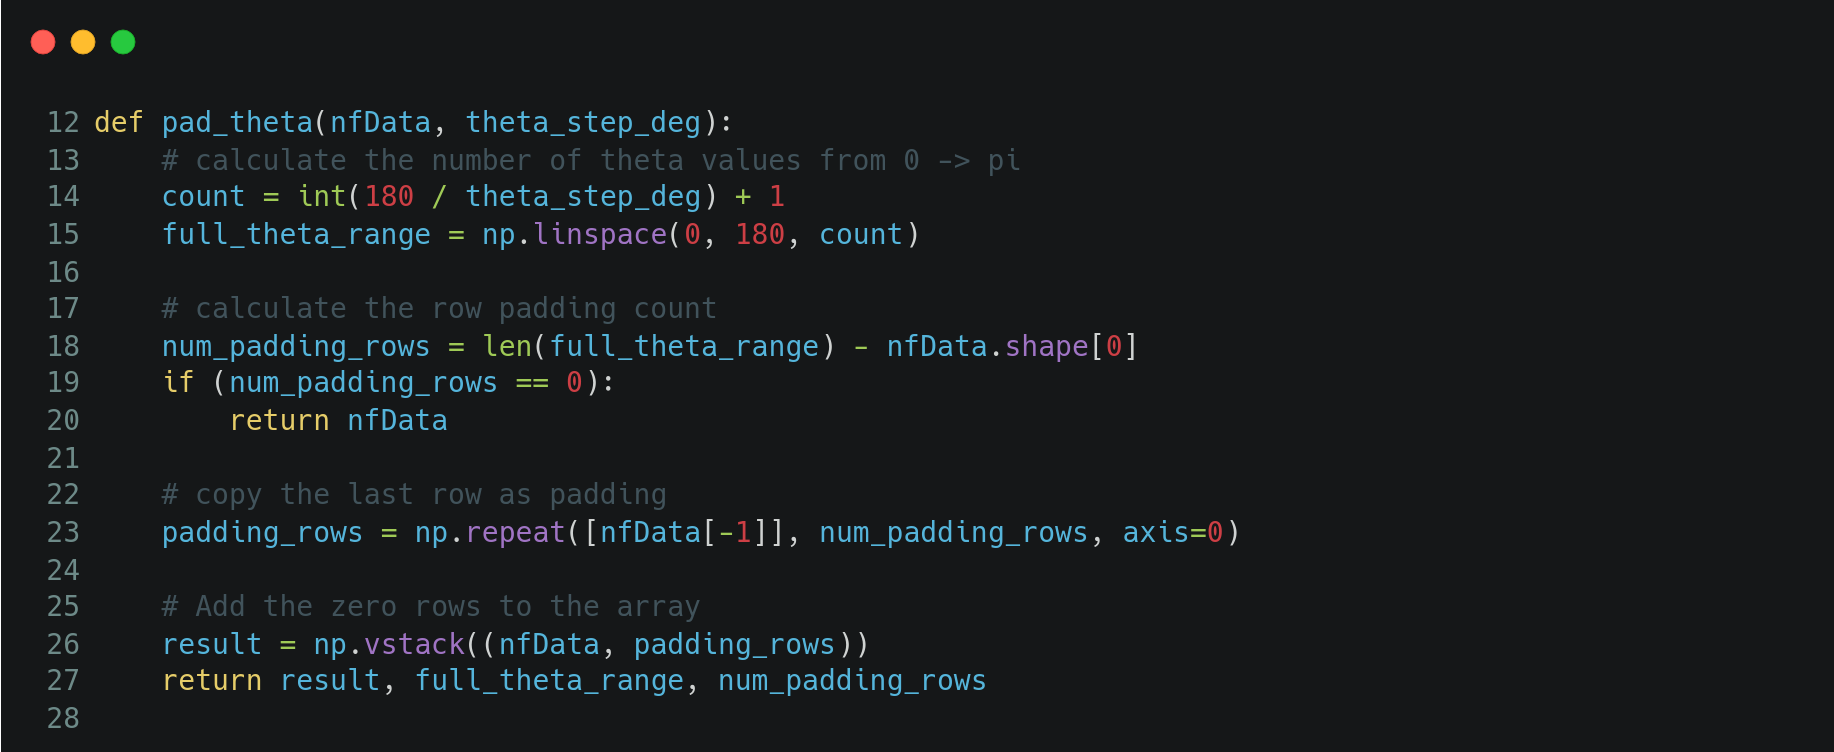
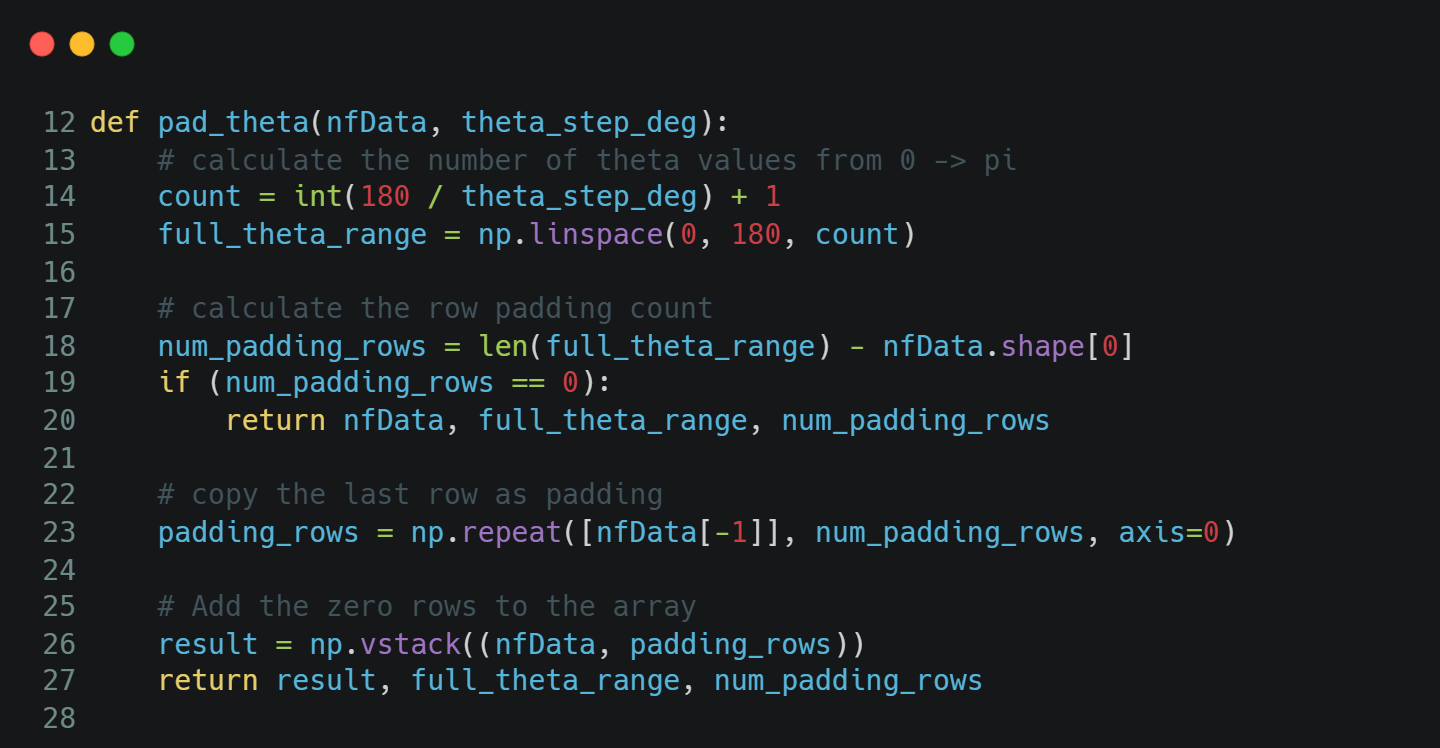
fixed code snippet

diff --git a/spherical-NF-FF/configurable/modules/pre_process.py b/spherical-NF-FF/configurable/modules/pre_process.py
@@ -17,7 +17,7 @@ def pad_theta(nfData, theta_step_deg):
     # calculate the row padding count
     num_padding_rows = len(full_theta_range) - nfData.shape[0]
     if (num_padding_rows == 0):
-        return nfData
+        return nfData, full_theta_range, num_padding_rows
 
     # copy the last row as padding
     padding_rows = np.repeat([nfData[-1]], num_padding_rows, axis=0)
